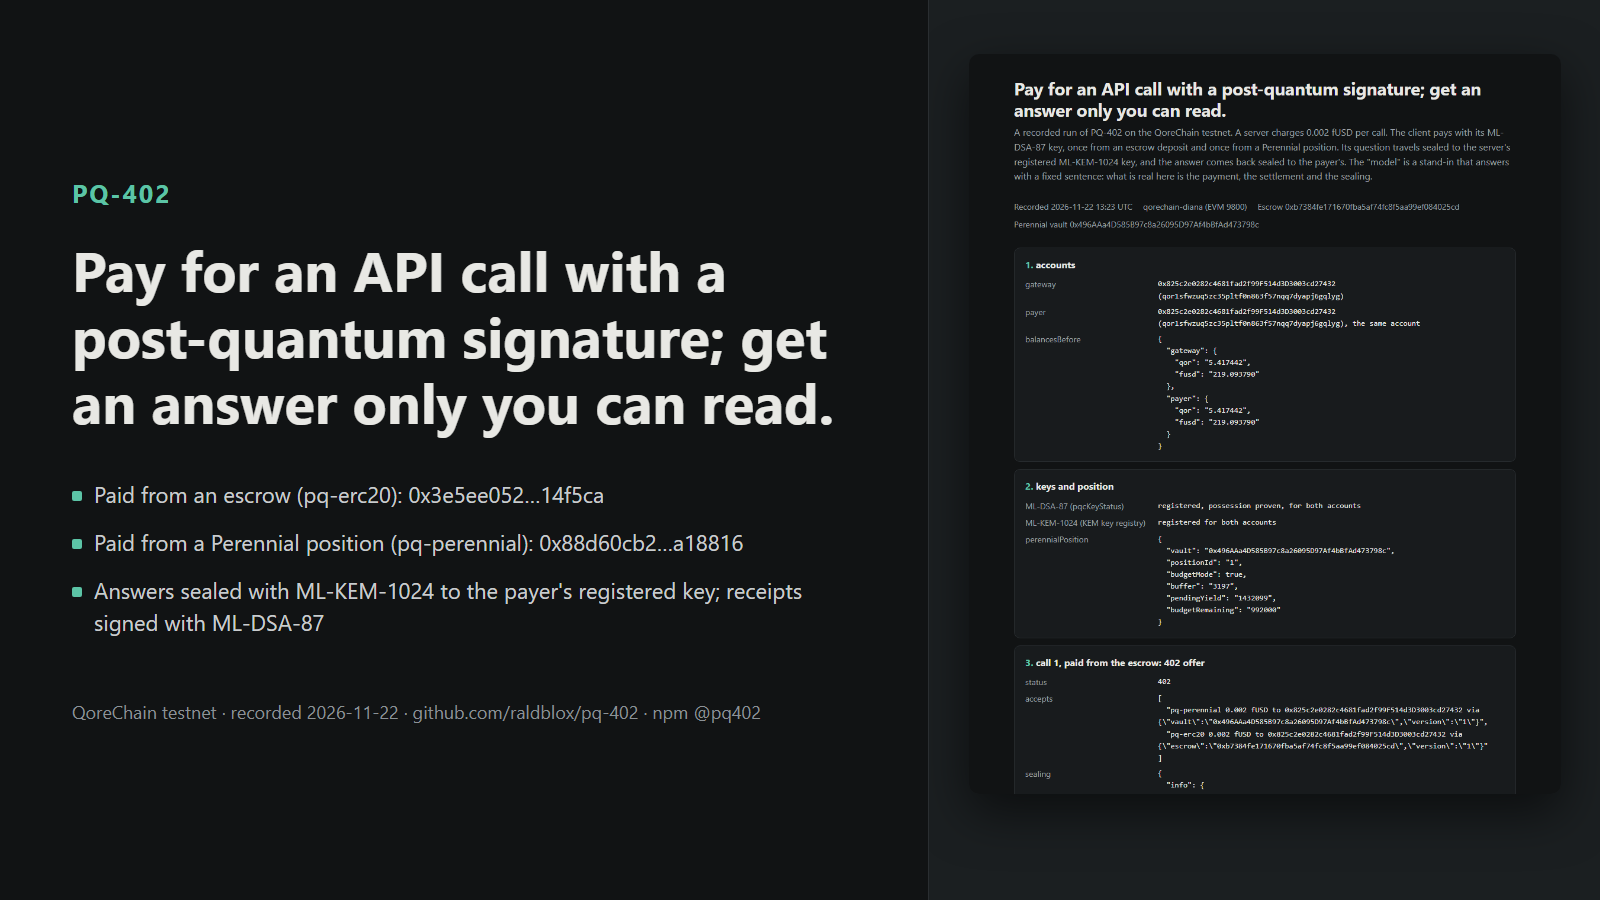
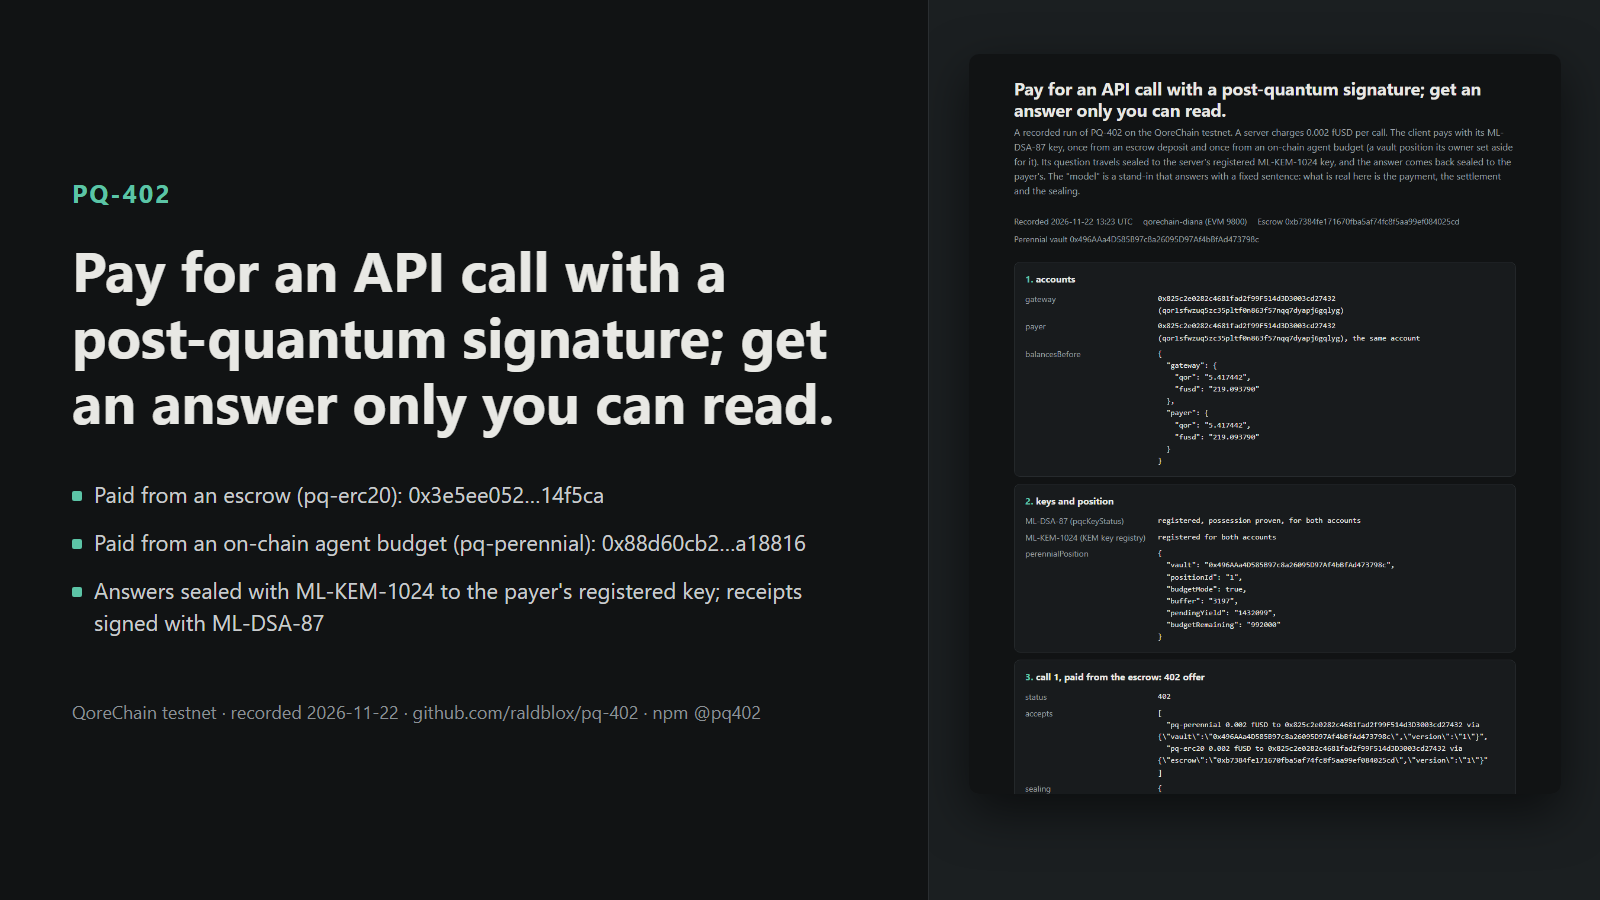
docs: lead with the provider's problem and detail the encryption
The README opens with what API providers and agent developers lack, then
shows each post-quantum encryption property with its code path, test and
testnet hash: ML-KEM-1024 sealing through QoreSeal, keys read from the
KEM registry, the binding of that key to the account's ML-DSA-87
identity, and sealing and opening on the client. The agent-budget scheme
is introduced in plain words, with the projects it works with at the
end; the demo page and cover say the same.

diff --git a/site/index.html b/site/index.html
@@ -167,10 +167,10 @@
       <h1>Pay for an API call with a post-quantum signature; get an answer only you can read.</h1>
       <p class="lede">
         A recorded run of PQ-402 on the QoreChain testnet. A server charges 0.002 fUSD per call. The client
-        pays with its ML-DSA-87 key, once from an escrow deposit and once from a Perennial position. Its
-        question travels sealed to the server's registered ML-KEM-1024 key, and the answer comes back sealed
-        to the payer's. The "model" is a stand-in that answers with a fixed sentence: what is real here is the
-        payment, the settlement and the sealing.
+        pays with its ML-DSA-87 key, once from an escrow deposit and once from an on-chain agent budget (a
+        vault position its owner set aside for it). Its question travels sealed to the server's registered
+        ML-KEM-1024 key, and the answer comes back sealed to the payer's. The "model" is a stand-in that
+        answers with a fixed sentence: what is real here is the payment, the settlement and the sealing.
       </p>
       <div class="meta" id="meta"></div>
       <ol class="steps" id="steps"></ol>

diff --git a/examples/demo.ts b/examples/demo.ts
@@ -359,7 +359,7 @@ async function main() {
     const { server, origin } = await startServer({ chain: evm, settler, gateway, escrow, vault }, 0);
     try {
       await paidCall("call 1, paid from the escrow", origin, payer, undefined);
-      await paidCall("call 2, paid from the Perennial position", origin, payer, positionId);
+      await paidCall("call 2, paid from an on-chain agent budget", origin, payer, positionId);
     } finally {
       server.close();
     }

diff --git a/README.md b/README.md
@@ -5,11 +5,20 @@
 **Pay for an API call with a post-quantum signature; get an answer only you
 can read.**
 
-PQ-402 lets an HTTP server charge per request and a client pay automatically,
-with the payment authorised by an ML-DSA-87 signature, settled on the
-QoreChain testnet, and the request and the answer encrypted with ML-KEM-1024
-to keys registered on chain. It extends [x402](https://github.com/x402-foundation/x402),
-the HTTP `402 Payment Required` protocol, without changing its wire format.
+**The problem.** An API provider who wants to charge per request needs
+accounts, API keys and billing, and an agent cannot sign up for any of them.
+Pay-per-request protocols such as [x402](https://github.com/x402-foundation/x402)
+remove the accounts, but the payment is still authorised with an ECDSA
+signature that a quantum computer could forge, and the request and the answer
+can be read by anyone on the path beyond TLS, or recorded today and read later.
+
+**What PQ-402 does.** A server answers `402 Payment Required` with a price.
+The client pays with a signature from its **ML-DSA-87** key, which the
+contract that moves the money checks on the QoreChain testnet. The request
+travels encrypted with **ML-KEM-1024** to the server's registered key, and the
+answer comes back encrypted to the client's registered key, so only the payer
+can read it. Each answer carries a receipt signed by the server's ML-DSA-87
+key. The wire format stays x402 v2.
 
 **Live demo:** [pq-402.vercel.app](https://pq-402.vercel.app), a recorded run
 on the testnet, step by step, with its transaction hashes.
@@ -27,18 +36,13 @@ The client pays one of two ways ([decision 007](docs/decisions/007-two-schemes.m
 
 | Scheme | Paid from | Settled by |
 |---|---|---|
-| `pq-erc20` | the client's fUSD deposit in [`PQ402Escrow`](contracts/src/PQ402Escrow.sol) | `PQ402Escrow.settle`, which checks the signature with the `pqcVerify` precompile |
-| `pq-perennial` | a [Perennial](https://github.com/raldblox/perennial) position's buffer | the vault's `spend`, signed by the position's beneficiary |
+| `pq-erc20` | a deposit of fUSD in [`PQ402Escrow`](contracts/src/PQ402Escrow.sol), a small escrow contract | `PQ402Escrow.settle`, which checks the ML-DSA-87 signature with the `pqcVerify` precompile |
+| `pq-perennial` | an on-chain agent budget: a vault position whose owner set aside funds the agent may spend (see [Works with](#works-with)) | the vault's own `spend`, which checks the agent's ML-DSA-87 signature |
 
 The client holds no QOR and sends no transaction: the server's facilitator
 submits the settlement and pays the gas ([decision 008](docs/decisions/008-relayer-pays-gas.md)).
 
-## Why
-
-x402 payments are authorised with ECDSA signatures, and the requests and
-answers they pay for travel in plaintext beyond TLS. A quantum computer that
-breaks ECDSA could forge such payments; one that breaks today's key exchange
-could read recorded traffic later. PQ-402 changes three things:
+## Why post-quantum
 
 - **The payment** is authorised by ML-DSA-87 (FIPS 204), verified on chain
   against the key the payer registered with QoreChain, by the contract that
@@ -81,6 +85,73 @@ client                                                     server
 Headers and JSON objects are standard x402 v2, so a stock x402 client reads
 the `402` and skips the schemes it cannot pay. The normative description is
 [docs/spec.md](docs/spec.md); the reasoning is in [docs/decisions/](docs/decisions/).
+
+## Post-quantum encryption, in detail
+
+Each point below names the code that does it, the test that shows it, and the
+testnet transaction where it happened.
+
+**1. ML-KEM-1024 encryption.** Bodies are sealed with QoreSeal envelopes in
+ML-KEM-1024 mode (`mode: "mlkem"`): `sealRequest`, `openRequest`,
+`sealResponse` and `openResponse` in
+[packages/core/src/sealing.ts](packages/core/src/sealing.ts) call QoreSeal's
+`seal` and `open` and nothing else; there is no cryptography of our own. The
+request is sealed for the purpose `pq402-request`, bound to the method, path
+and content type; the answer for `pq402-response`, bound to the request hash
+and content type. Tests:
+[packages/core/test/sealing.test.ts](packages/core/test/sealing.test.ts)
+(a wrong key, path, method, type or chain cannot open; a flipped byte is
+rejected) and a known-answer envelope in
+[packages/core/test/vectors/v1.json](packages/core/test/vectors/v1.json).
+On the testnet, calls 1 and 2 of the [recorded run](https://pq-402.vercel.app)
+sent 1,807-byte envelopes and got 1,799-byte envelopes back; they settled in
+`0x3e5ee052…b14f5ca` and `0x88d60cb2…da18816`.
+
+**2. Registered recipient keys.** Neither side takes a key from the other's
+messages. The `402` names the gateway's address; the client reads the
+gateway's ML-KEM-1024 key from the chain's KEM key registry, and the server
+reads the payer's the same way, through `EvmChainReader.kemKey` in
+[packages/scheme-qorechain/src/evm.ts](packages/scheme-qorechain/src/evm.ts)
+(QoreSeal's `fetchMlkemPublicKey`, REST `/qorechain/pqc/v1/kem/{address}`). The
+server reads the payer's key before running the handler and refuses a payer
+without one. The account in the recorded runs registered its key with
[1 lines of base64/hex data omitted]
+(algorithm 2, a 1,568-byte ML-KEM-1024 key). Tests in
+[packages/client/test/roundtrip.test.ts](packages/client/test/roundtrip.test.ts):
+"cannot open a request sealed to a key that is not the gateway's" and
+"refuses a payer with no registered KEM key, without running the handler".
+
+**3. Binding to the ML-DSA-87 identity.** The encryption key and the signing
+key belong to the same QoreChain account, and both are read by that account's
+address:
+
+- The KEM key was registered in a hybrid-signed transaction: the
+  `MsgRegisterKEMKey` above carries a `PQCHybridSignature` extension with a
+  4,627-byte ML-DSA-87 signature alongside the account's classical one.
+  QoreChain asks for that signature on native transactions other than the
+  ML-DSA key registration itself
+  ([post-quantum signing](https://docs.qorechain.io/developer-guide/post-quantum-signing)).
+- A payment is accepted only when its ML-DSA-87 signature verifies against the
+  key `pqcKeyStatus` reports for the payer's address, registered with proof of
+  possession: in the facilitator
+  ([facilitator.ts](packages/scheme-qorechain/src/facilitator.ts),
+  [perennial.ts](packages/scheme-qorechain/src/perennial.ts)) and again on
+  chain ([PQCAuth.sol](contracts/src/libraries/PQCAuth.sol)).
+- Only then does the server seal the answer, to the KEM key registered for that
+  same address. A stolen classical key alone cannot sign a payment.
+- In the other direction, the receipt is signed by the gateway's ML-DSA-87 key,
+  and the client checks it against `pqcKeyStatus` for the gateway's address,
+  the account whose KEM key sealed the request (test: "rejects a receipt not
+  signed by the gateway's registered key").
+
+**4. Client-side encryption and decryption.** The client seals before anything
+leaves its process and opens after the answer arrives, in
+[packages/client/src/fetch.ts](packages/client/src/fetch.ts) (`sealRequest`
+after reading the gateway's key; `openResponse` after checking the receipt).
+A sealing client first sends a body-less probe, so the plaintext is never sent,
+not even to learn the price. Test: "seals the request body: the plaintext never
+crosses the wire". The recorded testnet run checks the same: its transcript
+records `plaintext visible on the wire: false` for both calls.
 
 ## Install
 
@@ -128,8 +199,8 @@ pnpm contracts:test       # Solidity: unit, fuzz, invariant, vectors
 
 # terminal 1: a paid endpoint
 pnpm example:server
-# terminal 2: pays three calls from a Perennial position and two from
-# an escrow, and opens every sealed answer
+# terminal 2: pays three calls from an agent-budget position and two
+# from an escrow, and opens every sealed answer
 pnpm example:client
 ```
 
@@ -145,10 +216,10 @@ their interface, not their cryptography.
 
 | Part | Tested | On the testnet |
 |---|---|---|
-| Signed bytes, ML-DSA-87, ML-KEM-1024 sealing | 105 TypeScript tests, known-answer vectors cross-checked in Solidity | the client's signature verified by the real `pqcVerify` (`eth_call`), refused with one bit flipped |
+| Signed bytes, ML-DSA-87, ML-KEM-1024 sealing | 109 TypeScript tests, known-answer vectors cross-checked in Solidity | the client's signature verified by the real `pqcVerify` (`eth_call`), refused with one bit flipped |
 | `PQ402Escrow` | 43 Foundry tests: unit, fuzz (512 runs), invariant (8,192 calls), vectors | deployed; deposits, settlements, a signed withdrawal and payouts (below) |
 | `pq-erc20` end to end | over real HTTP against the in-memory chain | three paid, sealed calls settled (below) |
-| `pq-perennial` end to end | over real HTTP against an in-memory model of `spend`, budget mode included | one paid, sealed call settled from a position on the accelerated Perennial vault (below); signing bytes match all three deployed vaults |
+| `pq-perennial` end to end | over real HTTP against an in-memory model of `spend`, budget mode included; relayer gas estimated per call | one paid, sealed call settled from an agent-budget position (below); signing bytes match all three deployed vaults; a spend that has to draw on the vault's principal has not been run since the gas fix |
 | Header sizes | `PAYMENT-SIGNATURE` 9,396 B, `PAYMENT-RESPONSE` 9,052 B, under Node's default 16 KiB | – |
 | Proxies, CDNs, browsers | not tested; nginx's default 8 KB header line is too small ([decision 005](docs/decisions/005-header-size.md)) | – |
 
@@ -162,7 +233,7 @@ source verification: the build settings are in
 | | |
 |---|---|
 | `PQ402Escrow` | [`0xb7384fe171670fba5af74fc8f5aa99ef084025cd`](https://explore.qore.network/address/0xb7384fe171670fba5af74fc8f5aa99ef084025cd), deployed in [`0xd8ce83c6…14cd8b`](https://explore.qore.network/tx/0xd8ce83c612f9b2371211ff0c4cc1ad5caf2e3a37ad08309796315efb4d14cd8b); withdrawal delay 120 s for this test deployment (the deploy script's default is 3,600 s) |
-| Perennial vault (accelerated demo rate) | `0x496AAa4D585B97c8a26095D97Af4bBfAd473798c`, position 1 |
+| Agent-budget vault ([Perennial](#works-with), accelerated test rate) | `0x496AAa4D585B97c8a26095D97Af4bBfAd473798c`, position 1 |
 | Asset | fUSD `0x97143B771D34ddb9130b807b135Ae675A5a963CA` |
 | Account | `0x825c2e0282c4681fad2f99F514d3D3003cd27432` / `qor1sfwzuq5zc35pltf0n863f57nqq7dyapj6gqlyg`: deployer, gateway, relayer and payer at once, so every payment returned to it |
 
@@ -197,14 +268,18 @@ called, closed afterwards; the deployment used a one-transaction window,
 because a scoped window refuses contract creation. Setting up a testnet run
 from scratch is described in [docs/quickstart.md](docs/quickstart.md).
 
-## Related projects
+## Works with
 
-- [Perennial](https://github.com/raldblox/perennial): a vault whose positions
-  can pay for API calls from their buffer with `pq-perennial`.
-- [Overwinter](https://github.com/raldblox/overwinter) (in development): an
-  inference service meant to charge through PQ-402.
+PQ-402 stands on its own: the escrow scheme needs nothing else. Two other
+projects use it:
 
-Neither is needed to use PQ-402.
+- **On-chain agent budgets.** [Perennial](https://github.com/raldblox/perennial)
+  is a vault where an owner sets money aside for an agent, which may spend only
+  what the vault allows. With `pq-perennial`, the agent pays for API calls
+  straight from that budget, signing the vault's `spend` with its ML-DSA-87
+  key. The recorded run used position 1 on its accelerated test vault.
+- **Paid inference.** [Overwinter](https://github.com/raldblox/overwinter)
+  (in development) is an inference service meant to charge through PQ-402.
 
 ## Documents
 
